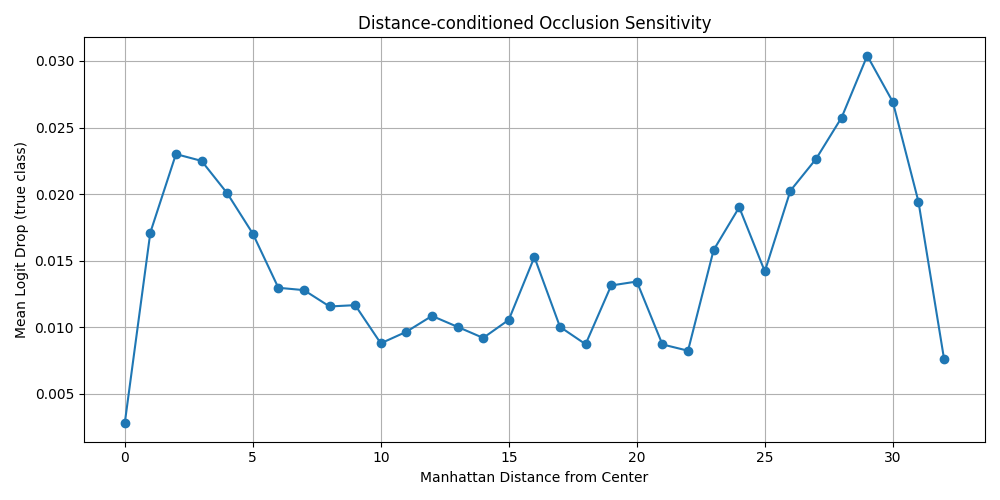
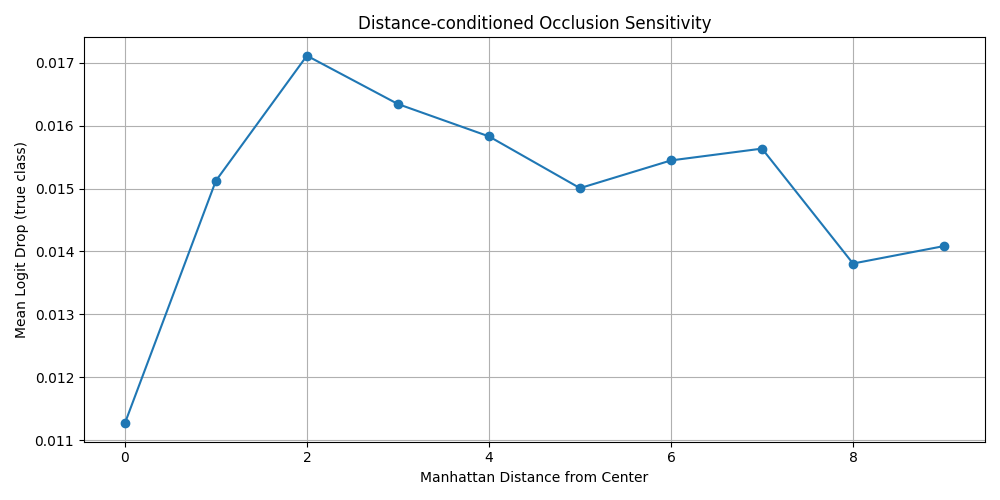
chore: allow code to run on any image size & patch size

diff --git a/analysis/dis_occ_sensitivity.py b/analysis/dis_occ_sensitivity.py
@@ -5,6 +5,7 @@ import wandb
 import matplotlib.pyplot as plt
 import numpy as np
 from tqdm import tqdm
+from collections import defaultdict
 
 from utils.config import parse_args
 from utils.dataset import get_dataloader
@@ -27,17 +28,16 @@ def _load_checkpoint(model, ckpt_path, device):
     target.load_state_dict(state_dict, strict=True)
 
 
-def grid_distance_bins(H, W, anchor_y, anchor_x):
+def grid_distance_bins(H, W, anchor_x, anchor_y, max_d: int=10, device: torch.device=None):
     """
     Given the shape [H, W] of the image and the anchor_y and anchor_x,
-    return the distance_bins
+    return the distance_bins - a list of length (max_d+1)
     Measure the distance using Manhattan Distance
     TODO Improve efficiency of the for loop; don't need iteration of max_d+1
     """
-    yy, xx = torch.meshgrid(torch.arange(H), torch.arange(W), indexing="ij")
-    dist = (yy - anchor_y).abs() + (xx - anchor_x).abs()
+    xx, yy = torch.meshgrid(torch.arange(H), torch.arange(W), indexing="ij")
+    dist = (xx - anchor_x).abs() + (yy - anchor_y).abs()
     bins = []
-    max_d = int(dist.max().item())
 
     for d in range(max_d + 1):
         mask = (dist == d).reshape(-1)
@@ -53,44 +53,79 @@ def occlude_patches(x: torch.Tensor, patch_ids: torch.Tensor, fill: float = 0.0)
     B, C, H, W = x.shape
     out = x.clone()
     for pid in patch_ids.tolist():
-        py, px = pid // W, pid % W
-        out[:, :, py, px] = fill
+        px, py = pid // W, pid % W
+        out[:, :, px, py] = fill
 
     return out
 
 
 @torch.no_grad()
-def calculate_delta_given_archor(model, x, y, anchor_x, anchor_y, k_per_bin: int = 4, fill: float = 0.0):
+def calculate_delta_given_anchor(args, model: torch.nn.Module, x: torch.Tensor, y: torch.Tensor, anchor_row: int = 0, anchor_col: int = 0) -> dict[int, torch.Tensor]:
     """
-    Given model and x,y from batch,
-    Return delta [B, num_bins] = logit drop for true class per distance bin
-    TODO Choose multiple anchor_x, anchor_y and repeat
-    If we have a bin that has a size less than k_per_bins, then what?
+    Compute true-class logit drops for each distance bin from one anchor.
+
+    Returns:
+        A dict mapping distance -> tensor of shape [B], where each value is the
+        logit drop for that distance bin.
     """
-    model.eval()
     logits = model(x)
-
-    B, C, H, W = x.shape
-
     true_logit = logits.gather(1, y.view(-1, 1)).squeeze(1)
 
+    _, _, height, width = x.shape
+    bins = grid_distance_bins(height, width, anchor_row, anchor_col, device=x.device)
 
-    bins = grid_distance_bins(H, W, anchor_x, anchor_y)
-
-    deltas = []
-
-    for ids in bins:
-        if ids.numel() == 0:
+    deltas: dict[int, torch.Tensor] = {}
+    for distance, ids in enumerate(bins):
+        if ids.numel() < k_per_bin:
             continue
-        sel = ids[torch.randperm(ids.numel(), device=ids.device)[:min(k_per_bin, ids.numel())]].cpu()
-        x_occ = occlude_patches(x, sel, fill=fill)
+        if distance==0:
+            print(f"ids.numel: {ids.numel()}")
+        sample_size = min(args.k_per_bin, ids.numel())
+        perm = torch.randperm(ids.numel(), device=ids.device)[:sample_size]
+        selected_ids = ids[perm]
 
+        x_occ = occlude_patches(x, selected_ids, fill=fill)
         logits_occ = model(x_occ)
         true_logit_occ = logits_occ.gather(1, y.view(-1, 1)).squeeze(1)
-        deltas.append((true_logit - true_logit_occ).unsqueeze(1))
+        deltas[distance] = true_logit - true_logit_occ
 
-    return torch.cat(deltas, dim=1)  # [B, num_bins_kept]
+    return deltas
 
+
+@torch.no_grad()
+def calculate_mean_delta(args, model: torch.nn.Module, test_loader, ) -> np.ndarray:
+    """
+    Return the delta values after aggregating all of them
+    """
+    model.eval()
+    distance_to_values: dict[int, list[torch.Tensor]] = defaultdict(list)
+
+    for batch_idx, (x, y) in enumerate(
+        tqdm(test_loader, desc="Distance-conditioned Occlusion Sensitivity")
+    ):
+        if args.max_batches is not None and batch_idx >= args.max_batches:
+            break
+        x = x.to(args.device)
+        y = y.to(args.device)
+        _, _, height, width = x.shape
+        print(f"batch_idx: {batch_idx}, max_batches:{args.max_batches}, max_d:{args.max_d}")
+        for anchor_row in range(0, height, args.anchor_stride):
+            for anchor_col in range(0, width, args.anchor_stride):
+                delta_dict = calculate_delta_given_anchor(
+                    args, model=model, x=x, y=y, anchor_row=anchor_row, anchor_col=anchor_col
+                    )
+                for distance, delta in delta_dict.items():
+                    distance_to_values[distance].append(delta.detach().cpu())
+
+    if not distance_to_values:
+        raise RuntimeError("No deltas were collected. Check the dataloader and anchor settings.")
+
+    mean_delta = []
+    for distance in sorted(distance_to_values):
+        values = torch.cat(distance_to_values[distance], dim=0)
+        mean_delta.append(values.mean())
+
+    return torch.stack(mean_delta).numpy()    
 
 def create_delta_per_distance_chart(mean_delta: np.ndarray, save_path: str = None):
     distances = np.arange(len(mean_delta))
@@ -108,18 +143,36 @@ def create_delta_per_distance_chart(mean_delta: np.ndarray, save_path: str = Non
     plt.show()
     return fig
 
-
-def main():
+def _get_args():
     pre_parser = argparse.ArgumentParser(add_help=False)
     pre_parser.add_argument("--output_path", type=str, required=True)
+    pre_parser.add_argument("--fill", type=float, default=0.0)
+    pre_parser.add_argument("--k_per_bin", type=int, default=4)
+    pre_parser.add_argument("--max_batches", type=int, default=16)
+    pre_parser.add_argument("--max_d", type=int, default=10)
+    pre_parser.add_argument("--anchor_stride", type=int, default=1)
     pre_args, _ = pre_parser.parse_known_args()
 
     config_yaml = os.path.join(pre_args.output_path, "config.yaml")
     if not os.path.exists(config_yaml):
         raise FileNotFoundError(f"Saved config not found: {config_yaml}")
 
-    args = parse_args(["--config", config_yaml, "--output_path", pre_args.output_path])
+    args = parse_args([
+        "--config", config_yaml,
+        "--output_path", pre_args.output_path,
+    ])   
+
+    args.fill = pre_args.fill
+    args.k_per_bin = pre_args.k_per_bin
+    args.max_batches = pre_args.max_batches
+    args.max_d = pre_args.max_d
+    args.anchor_stride = pre_args.anchor_stride
+
     args.device = "cuda" if torch.cuda.is_available() else "cpu"
+    return args
+
+def main():
+    args = _get_args()
     set_seed(args.seed)
     
     wandb.init(mode="disabled")
@@ -133,21 +186,10 @@ def main():
 
     _, test_loader, _ = get_dataloader(args)
 
-    
-    all_deltas = []
-    for x, y in tqdm(test_loader, desc="Distance-conditioned occlusion"):
-        x = x.to(args.device)
-        y = y.to(args.device)
-        delta = distance_conditioned_occlusion(model, x, y)  # [B, num_bins]
-        all_deltas.append(delta.cpu())
-
-    all_deltas = torch.cat(all_deltas, dim=0)  # [N, num_bins]
-    mean_delta = all_deltas.mean(dim=0).numpy()  # [num_bins]
+    mean_delta = calculate_mean_delta(args, model, test_loader)
 
     save_path = os.path.join("./analysis/dis_occ_results/", f"dis_occ_{str(args.model).replace('/', '_')}.png")
     fig = create_delta_per_distance_chart(mean_delta, save_path=save_path)
-    return fig
-
 
 if __name__ == "__main__":
     main()

diff --git a/pretrained_val.py b/pretrained_val.py
@@ -107,7 +107,8 @@ def _make_cifar_densenet121(num_classes: int = 100) -> nn.Module:
     )
     # Replace 7×7/2 stem with 3×3/1
     model.features.conv0 = nn.Conv2d(3, 24, kernel_size=3, stride=1, padding=1, bias=False)
-    # Remove initial max-pool
+    # edadaltocg omits norm0 (BN) and pool0 after conv0
+    model.features.norm0 = nn.Identity()
     model.features.pool0 = nn.Identity()
     return model
 

diff --git a/utils/dataset.py b/utils/dataset.py
@@ -162,7 +162,7 @@ def get_dataloader(args):
         # weak & strong 공통: 기본 공간 증강
         if level in ('weak', 'strong'):
             train_transforms.extend([
-                transforms.RandomCrop(32, padding=4),
+                transforms.RandomCrop(args.img_size, padding=4),
                 transforms.RandomHorizontalFlip(),
             ])
 
